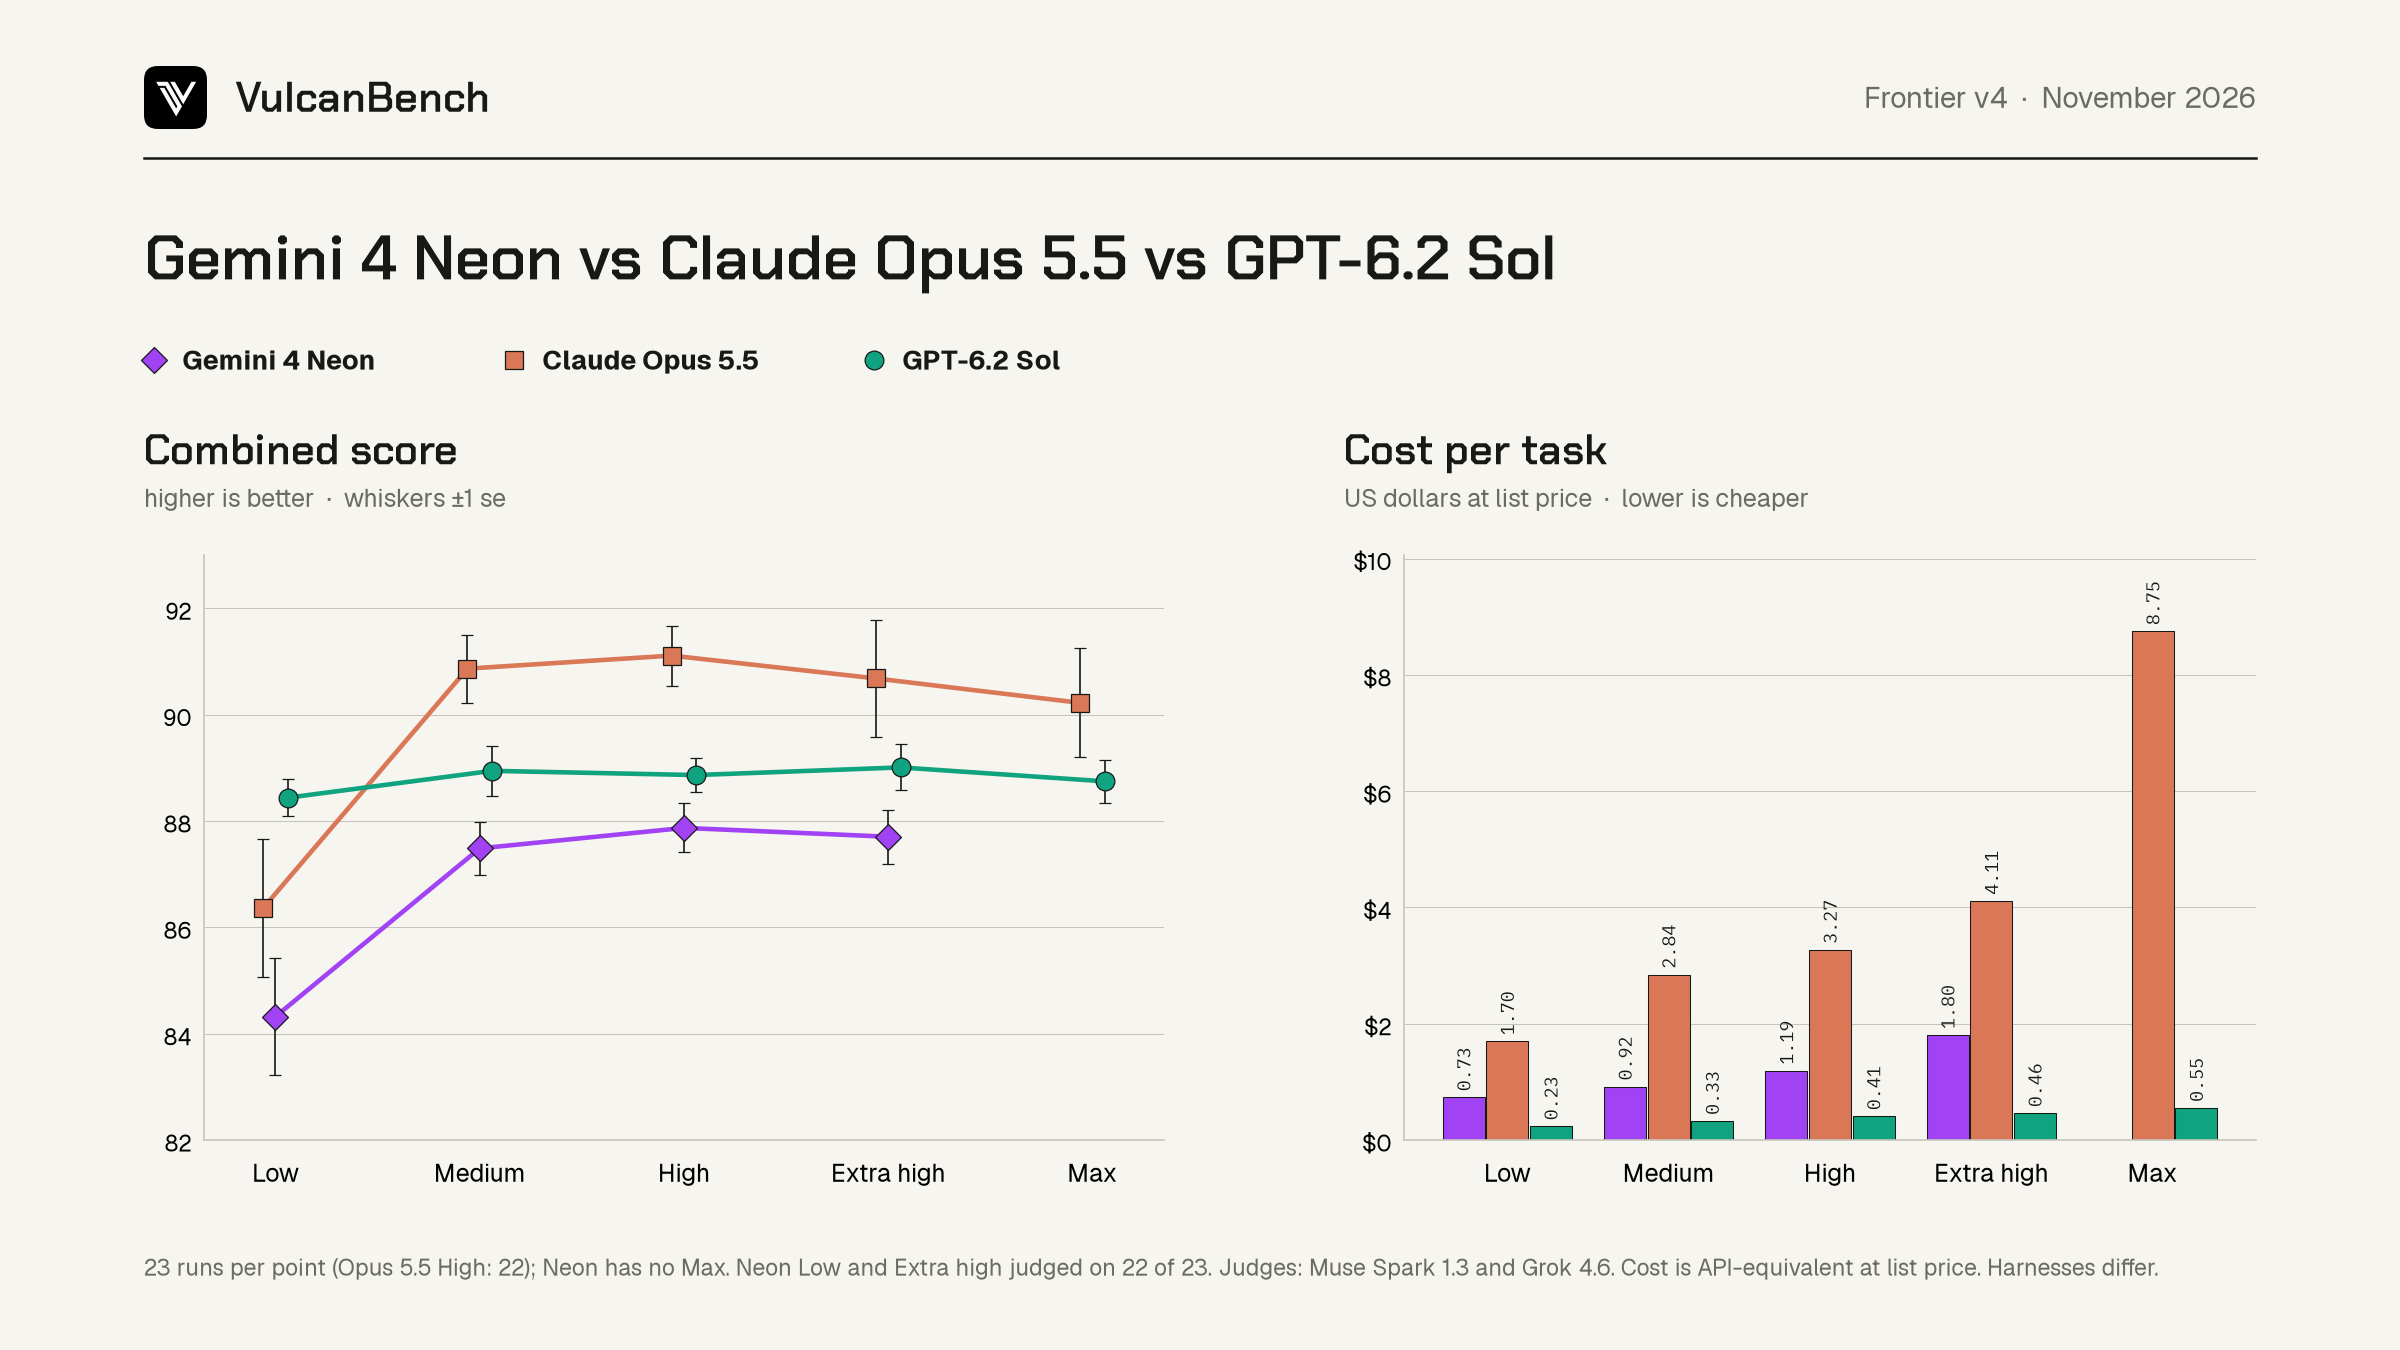
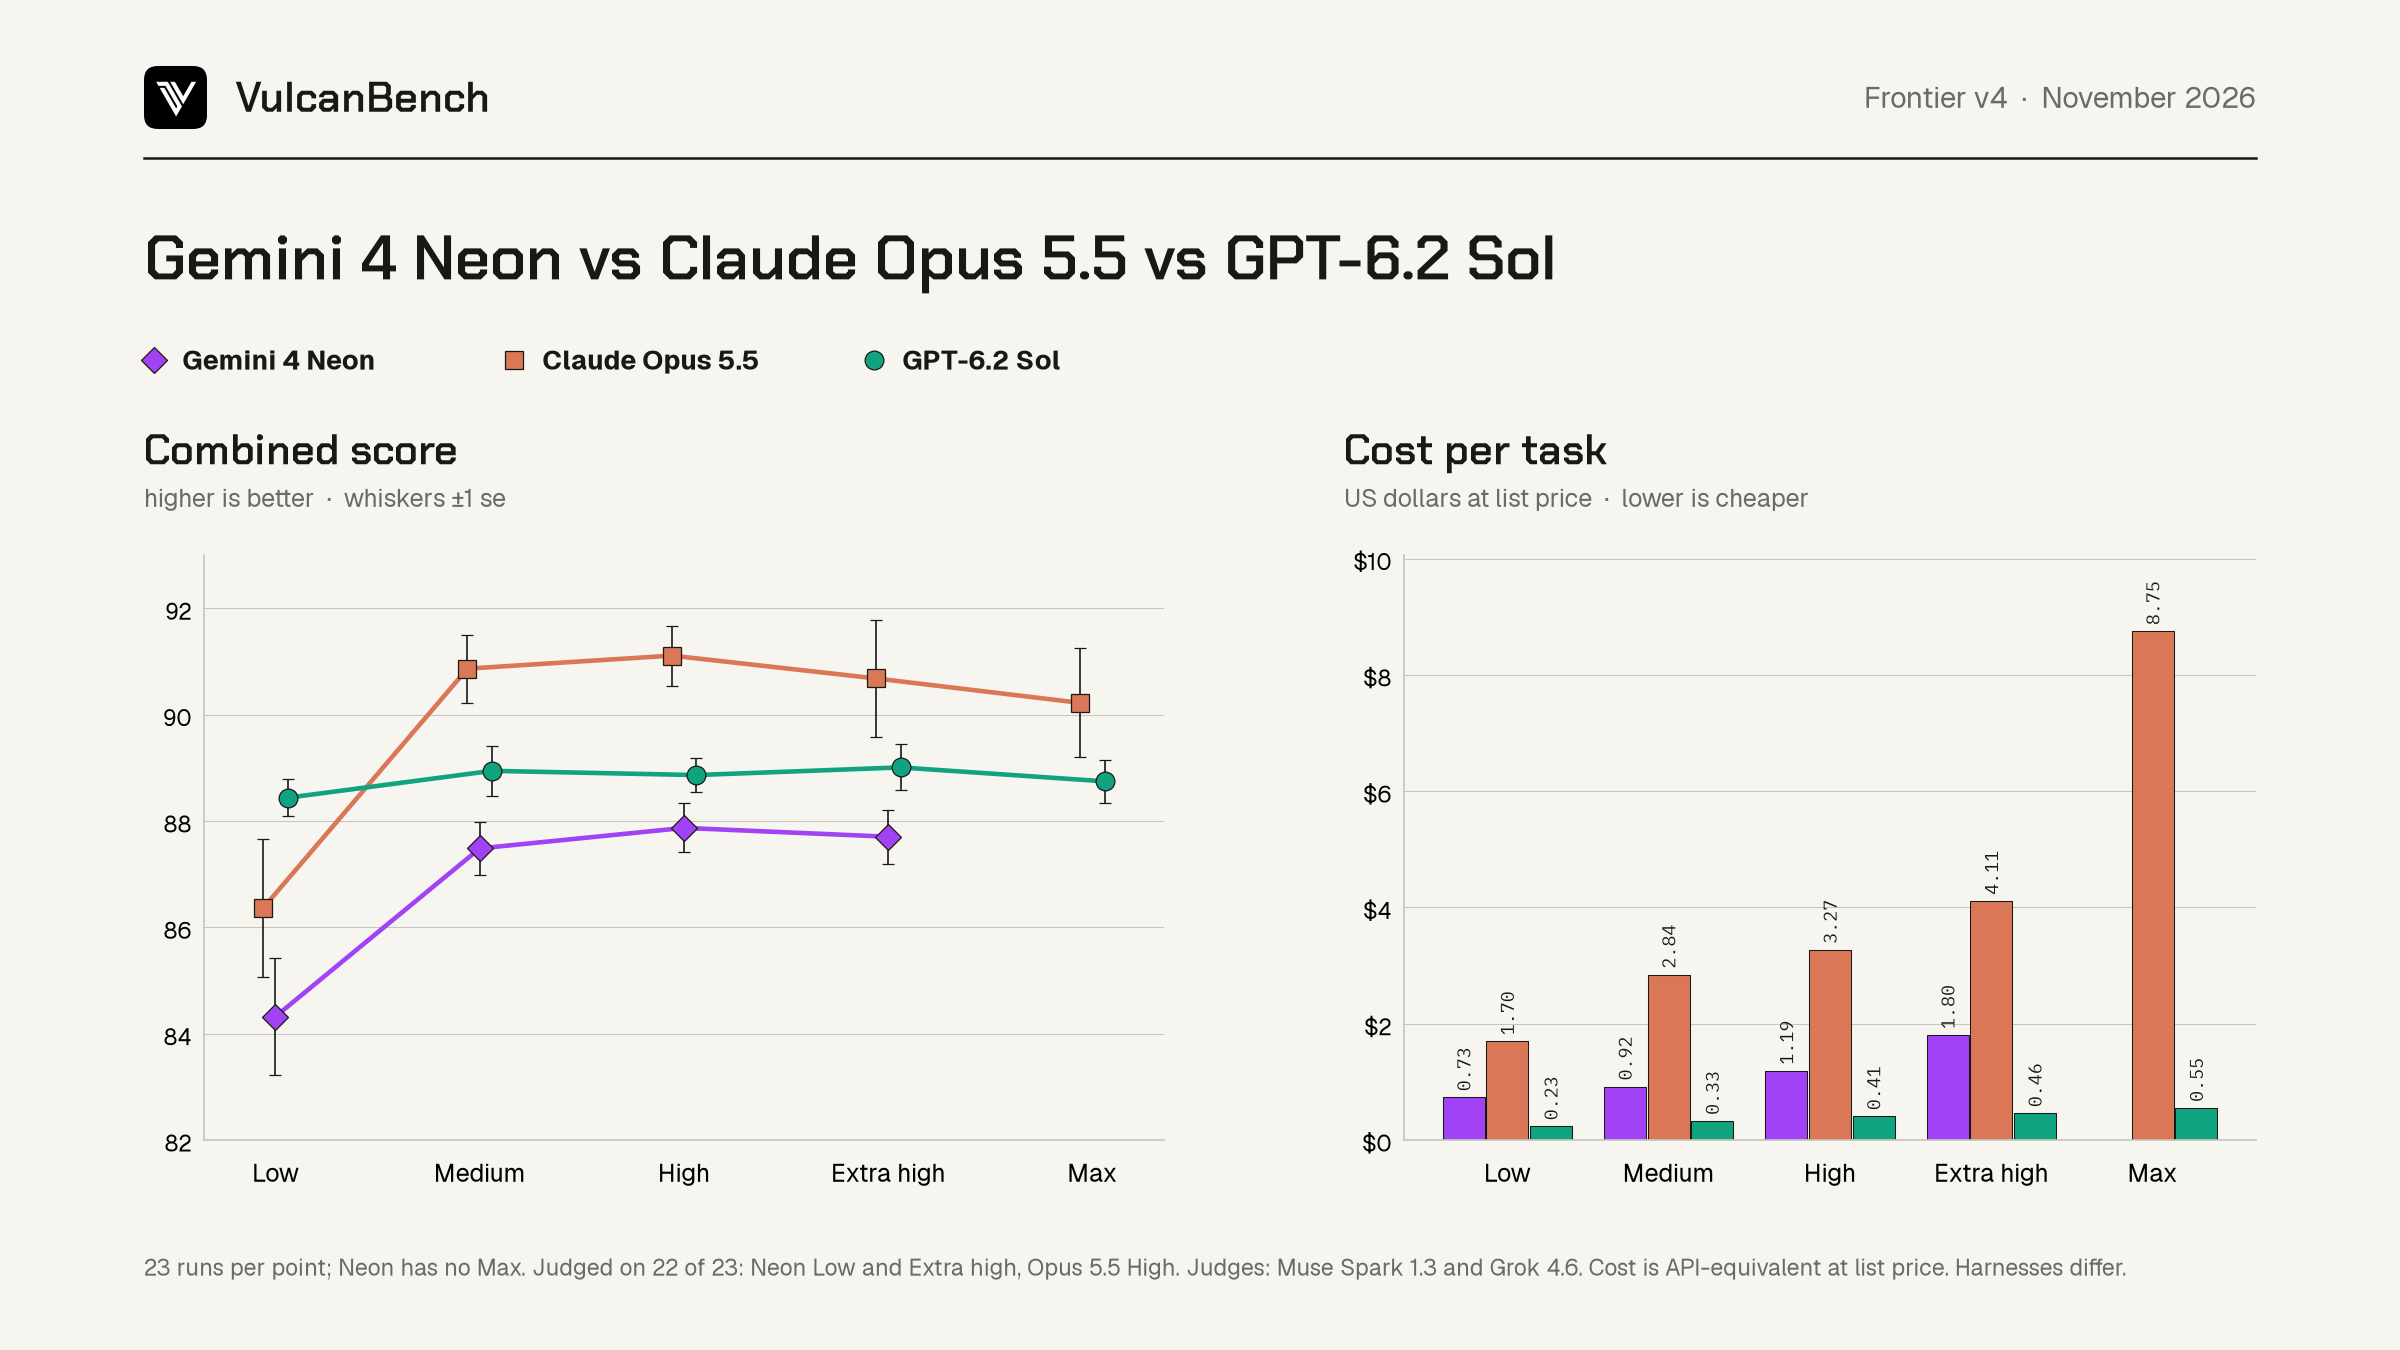
Neon: corrected comparison card (Opus 5.5 High ran 23, judged 22)
The exporter compared the card's run counts with the board's passed_of, which
counts judged runs. It now checks judged against the board and runs against
23. Card copy, provenance hash and test pin follow VulcanBench#330.

Changed region(s): [[0.125, 0.9333, 0.9062, 0.9644]]

diff --git a/scripts/test_swe_v4_v332.py b/scripts/test_swe_v4_v332.py
@@ -30,7 +30,7 @@ TOOLS = ("read_file", "write_file", "edit_file", "run_command")
 CARD = {"low": (84.3209, 1.0948, 66.1494, 5.1269, 0.7322), "medium": (87.4833, 0.4919, 67.8718, 5.8511, 0.9181),
         "high": (87.8685, 0.4601, 69.0667, 6.4493, 1.1913), "extra-high": (87.7024, 0.5109, 68.6887, 10.1158, 1.8036)}
 # Copied byte for byte from the harness (docs/results/swe-v4-gemini4-neon-2026-11/gemini4neon-vs-frontier.png, 2400x1350), shown at 1600x900.
[2 lines of base64/hex data omitted]
 # Comparators on the page and the card: published board rows.
 COMPARATORS = {"opus55": "Opus 5.5", "gpt62sol": "GPT-6.2 Sol"}
 UNPUBLISHED = {("low", "legacy-codeccore-binary-parity"): "submission-048", ("extra-high", "legacy-codeccore-binary-parity"): "submission-069"}

diff --git a/scripts/export_swe_v4_v332_evidence.py b/scripts/export_swe_v4_v332_evidence.py
@@ -632,7 +632,8 @@ def main():  # noqa: PLR0912, PLR0915, one linear export
     assert {r["model"] for r in compared} == set(COMPARATORS) and len(compared) == 5 * len(COMPARATORS)
     for r in compared:
         b = board[COMPARATORS[r["model"]], r["effort"]]
-        assert (int(r["judged"]), int(r["n"])) == (int(b["n"]), int(b["passed_of"])), (r["model"], r["effort"])
+        # The board's n and passed_of both count judged runs; every comparator level ran 23 tasks.
+        assert (int(r["judged"]), int(r["n"])) == (int(b["n"]), 23), (r["model"], r["effort"])
         for column, source in (("combined", "combined_33"), ("combined_se", "combined_33_se"), ("code_quality", "code_quality"),
                                ("usd_per_task", "mean_usd"), ("minutes", "mean_minutes")):
             assert abs(float(r[column]) - float(b[source])) <= 5e-5, (r["model"], r["effort"], column)
